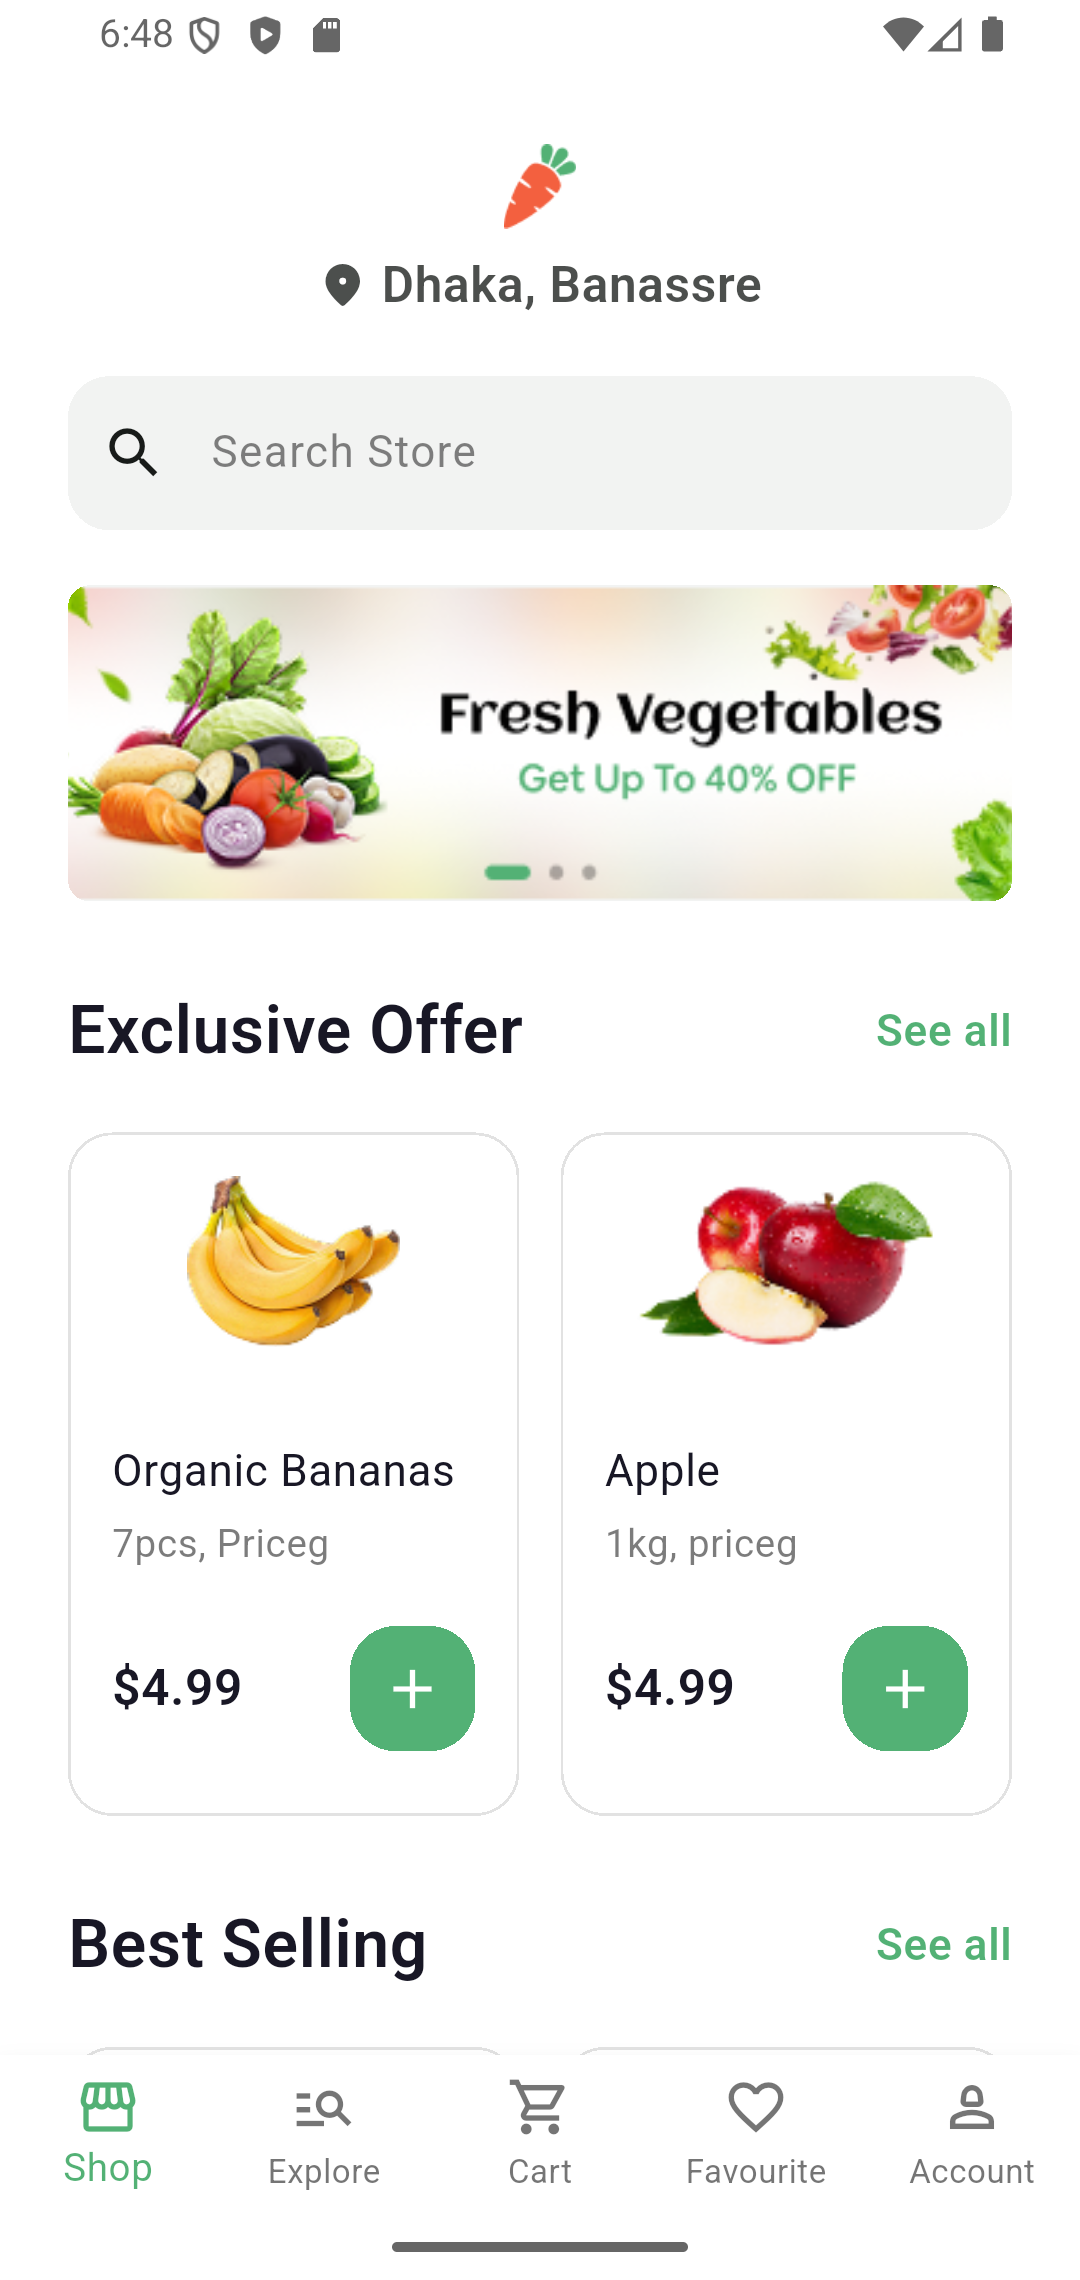
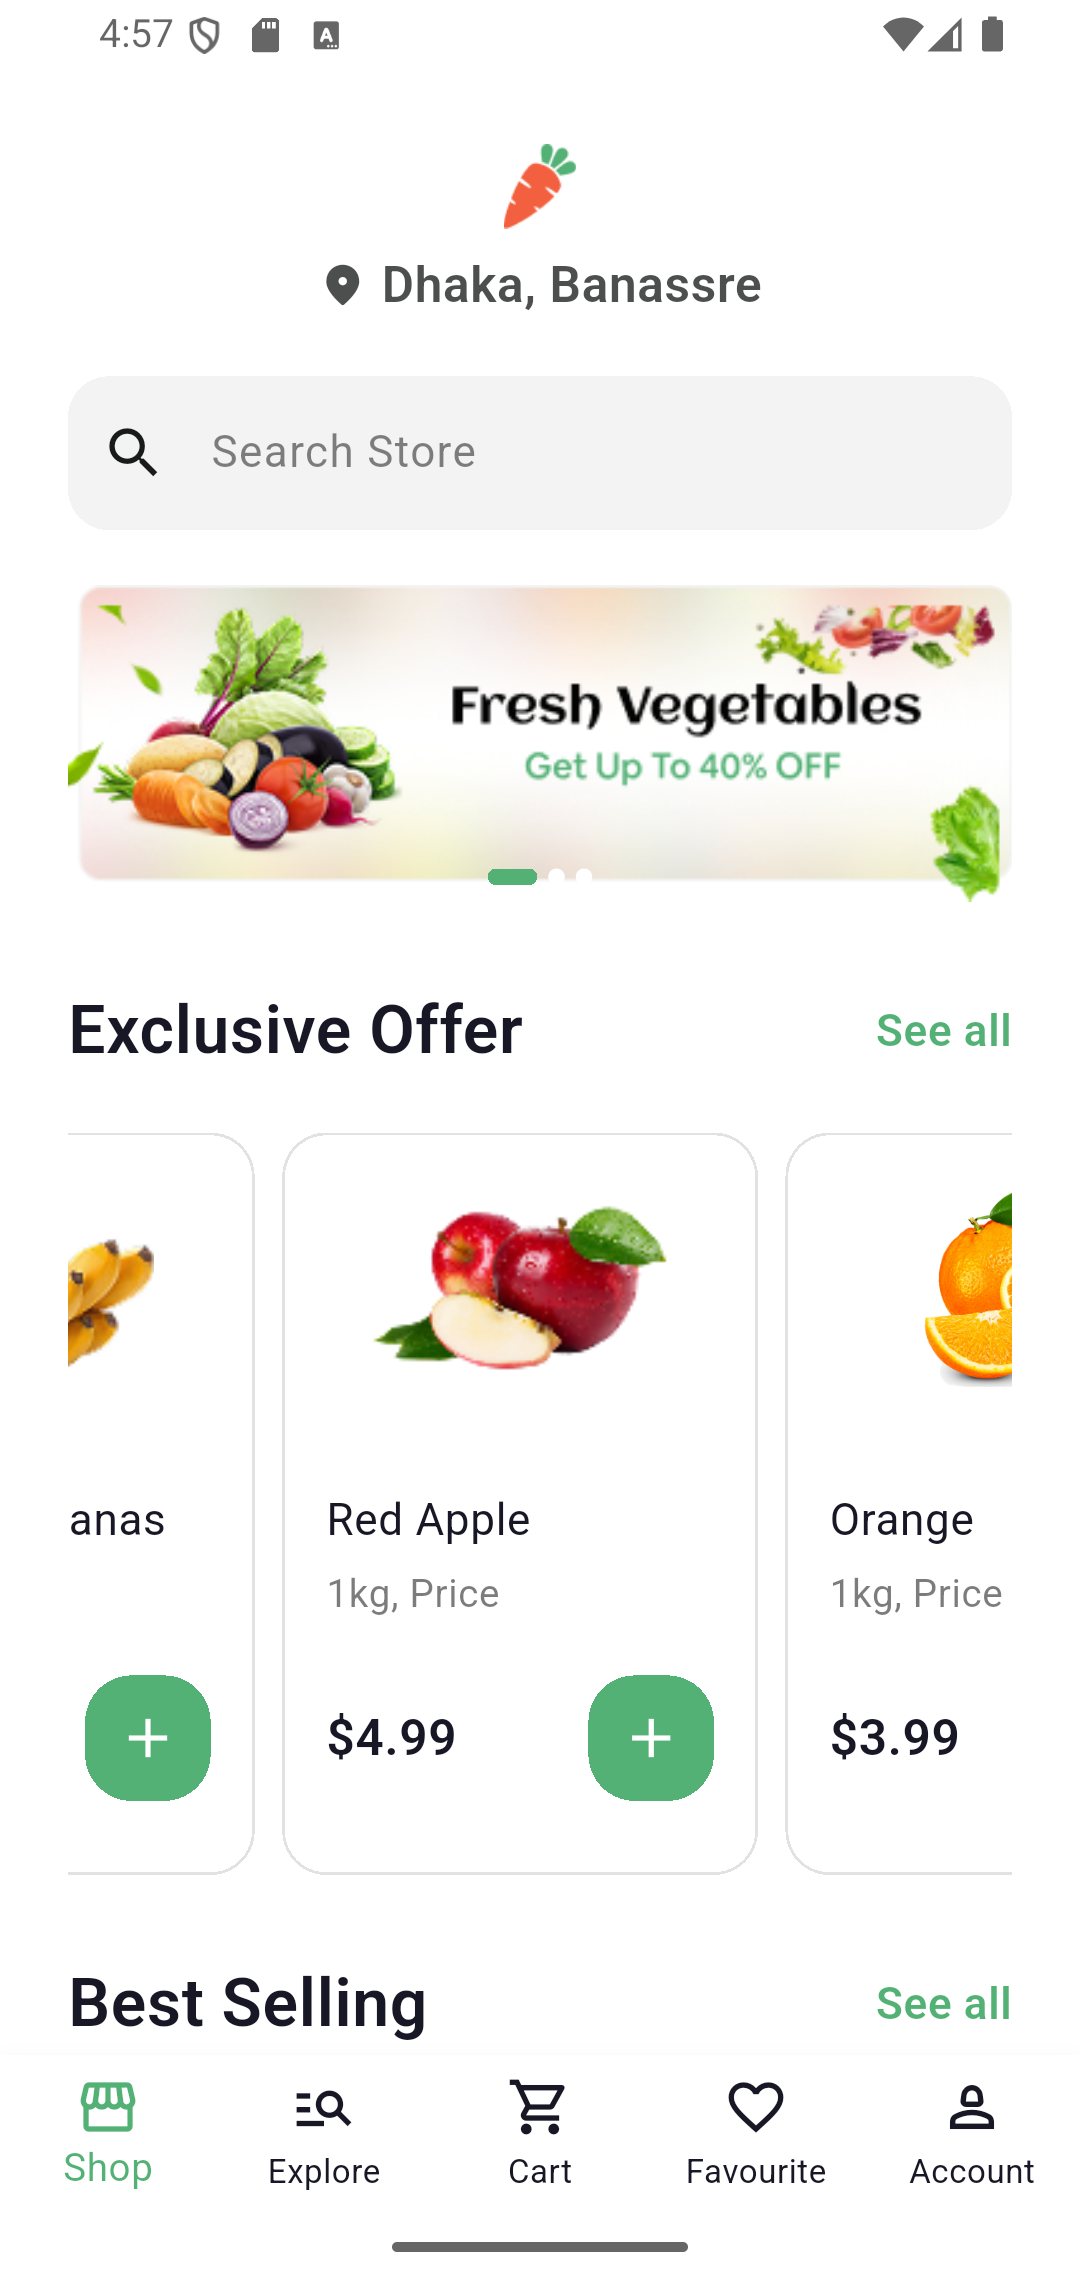
update readme

diff --git a/README.md b/README.md
@@ -10,6 +10,7 @@ A modern grocery mobile application built with Flutter.
   <img src="screenshots/shop1.png" width="200">
   <img src="screenshots/shop2.png" width="200">
   <img src="screenshots/explore.png" width="200">
-  <img src="screenshots/listView.png" width="200">
+  <img src="screenshots/product_details.png" width="200">
+  <img src="screenshots/account.png" width="200">
   
 </p>
